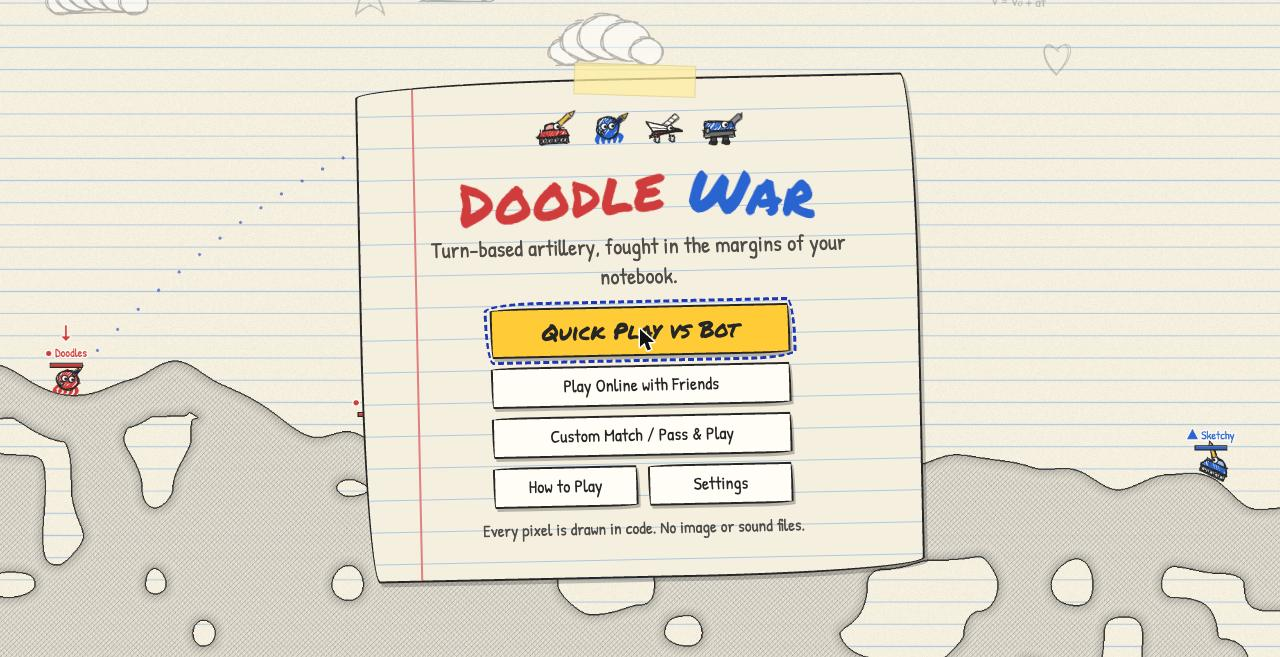
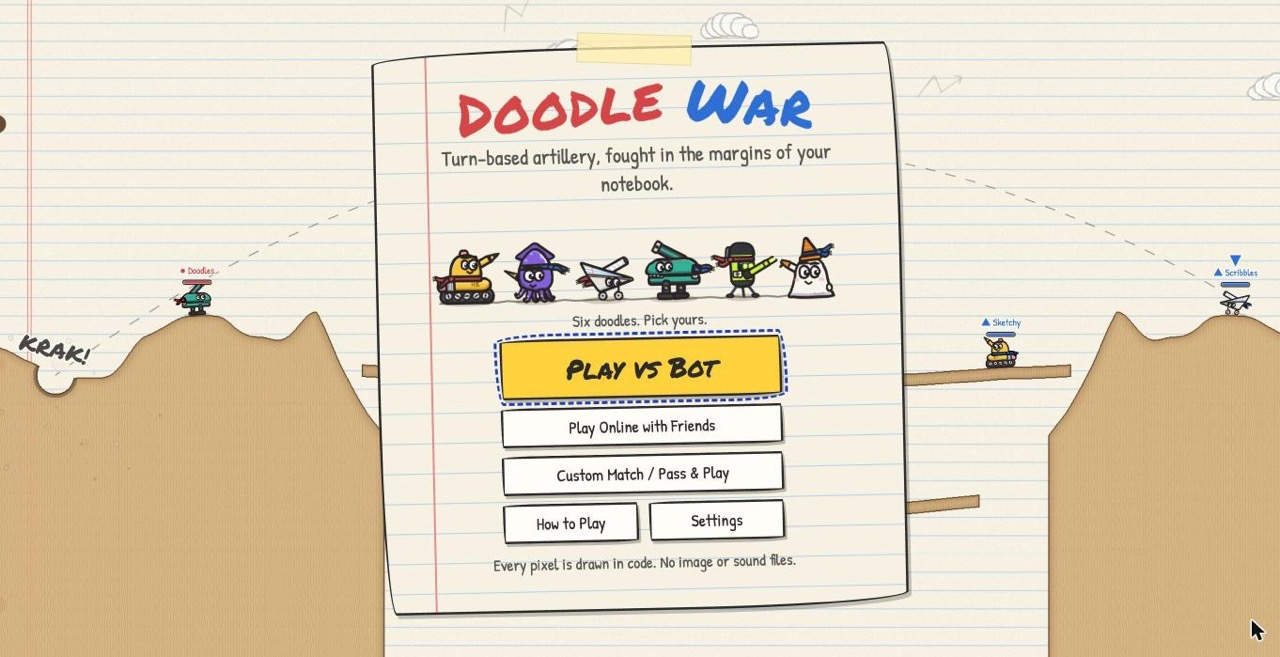
docs: six doodles, fair maps and new screenshots
The README lists every doodle's role and passive, the statuses, the
mirrored maps, how the rigs are drawn and the dev gallery, and the 62
tests. The screenshots and og.jpg, the link preview, show the new art.

diff --git a/README.md b/README.md
@@ -1,14 +1,14 @@
 # Doodle War ✏
 
-A turn-based artillery game fought in the margins of a notebook. Pick a doodle, read the wind, set your angle
-and power, and erase the other team off the page. Play against bots, pass one device around, or open an online
-room and send a friend its 4-letter code.
+A turn-based artillery game fought in the margins of a notebook. Pick one of six doodles, read the wind, set
+your angle and power, and erase the other team off the page. Play against bots, pass one device around, or open
+an online room and send a friend its 4-letter code.
 
 Built with TypeScript, Phaser 4 and React, with a Colyseus server for online rooms. There are no art or sound
 files: every sprite, paper texture, sound effect and music track is made in code when the game starts. The
 only bundled assets are two open-source fonts, Patrick Hand and Permanent Marker.
 
-![A 2v2 match on the Sticky Notes map](docs/screenshot-battle.jpg)
+![A 3v3 match on Margin Hills, with all six doodles on the page](docs/screenshot-battle.jpg)
 
 ## How this was built
 
@@ -60,7 +60,10 @@ Tips point these out during the first matches, and **How to play** on the title 
 - **Terrain is destructible.** Explosions erase the pencil ground, and a unit standing over a crater falls
   in. Falling off the page is a knockout.
 - **The special** (weapon 3) charges a little each turn, and faster when you deal or take damage.
-- **Draw:** once per match, each unit can ink a short line of new ground, as a wall or a bridge.
+- **Draw:** once per match, each unit can ink a short line of new ground, as a wall or a bridge. The Pencil
+  Tank's line can be 60% longer.
+- **Statuses** last for the hit unit's next turn. **Inked** walks half as far and its turn comes 100 delay
+  later; **Stuck** can't walk or hop; **Highlighted** takes 35% more from the next hit.
 - **Hop** spends part of the turn's walking to jump out of a crater or onto a ledge.
 - **Pickups** parachute in every few turns: a **Band-Aid** heals 250, a **Gold Star** adds 50 to the
   special, an **Ink Refill** gives back the Draw. Walk over one to take it. A blast near one pops it.
@@ -68,17 +71,28 @@ Tips point these out during the first matches, and **How to play** on the title 
 
 ### The doodles
 
-| Doodle       | HP   | Shots                                                                          | Special                                  |
-| ------------ | ---- | ------------------------------------------------------------------------------ | ---------------------------------------- |
-| Pencil Tank  | 1000 | Graphite Shell; Twin Lead, one shell short and one long                        | Sharpener: tunnels in, then goes off big |
-| Ink Squid    | 950  | Ink Blot, a wide splash; Splatter, which splits in three at the top            | Ink Storm: a rain of seven drops         |
-| Paper Plane  | 880  | Paper Dart, a glider the wind pushes hard; Crumple Ball, which barely feels it | Squadron: three darts in formation       |
-| Stapler Mech | 1150 | Staple, fast and flat; Rubber Band, which bounces twice                        | Staple Storm: five staples in a burst    |
+Each doodle has a job, a passive that bends one rule, two shots and a special. The select screen shows their
+health and mobility from these numbers, plus strengths and weaknesses.
 
-The Ink Squid's ink is sticky: whoever it hits walks half as far on their next turn.
+![The doodle select, with the Ink Squid picked](docs/screenshot-select.jpg)
 
-There are five maps (Margin Hills, Sticky Notes, Coffee Ring, Spiral Tower and Paper Bridges), and **Remix**
-reshuffles a map's details for a new layout. Matches run from 1v1 to 3v3, and bots come in three levels.
+| Doodle       | Role        | HP   | Passive                                            | Shots                                                                          | Special                                              |
+| ------------ | ----------- | ---- | -------------------------------------------------- | ------------------------------------------------------------------------------ | ---------------------------------------------------- |
+| Pencil Tank  | All-rounder | 1000 | Sketch Artist: a 60% longer Draw line              | Graphite Shell; Twin Lead, one shell short and one long                        | Sharpener: tunnels in, then goes off big             |
+| Ink Squid    | Controller  | 950  | Sticky Ink: inked enemies move less and act later  | Ink Blot, a wide splash; Splatter, which splits in three at the top            | Ink Storm: a rain of seven drops                     |
+| Paper Plane  | Skirmisher  | 880  | Glide: walks off ledges into a glide across gaps   | Paper Dart, a glider the wind pushes hard; Crumple Ball, which barely feels it | Squadron: three darts in formation                   |
+| Stapler Mech | Heavy       | 1150 | Plated: 20% less damage from splash                | Staple, fast and flat; Rubber Band, which bounces twice                        | Staple Storm: five staples in a burst                |
+| Highlighter  | Sniper      | 900  | Laser Sight: sees exactly where its beam goes      | Neon Line, a straight beam whose power sets its range; Cap Toss, which marks   | Overdrive: cuts through cover and every doodle on it |
+| Glue Blob    | Builder     | 1050 | Sticky Feet: climbs slopes more than twice as steep | Glue Glob; Glue Wall, which builds a mound of glue                             | Super Glue: a big blast that sticks enemies in place |
+
+Beams ignore wind and gravity, so the Highlighter needs a clear line; the Glue Wall is the counter, since it
+builds cover anywhere. The Highlighter can aim 30° below level, and the Glue Blob can't fire flatter than 15°.
+
+There are five maps (Margin Hills, Sticky Notes, Coffee Ring, Spiral Tower and Paper Bridges), each drawn in
+its own material: graphite hills with grass, sticky notes, a coffee stain, blue ballpoint and cardboard.
+**Every map is a mirror image down the middle, and both teams start in mirrored spots,** so neither side gets
+the better ground. **Remix** reshuffles a map's details for a new layout that is just as symmetric. Matches run
+from 1v1 to 3v3, and bots come in three levels.
 
 ## Online play
 
@@ -256,7 +270,7 @@ apps/server     The room server: a Colyseus room that runs the same rules for on
 | -------------- | ---------------------------------------------------------- |
 | Rendering      | [Phaser 4](https://phaser.io) (WebGL)                      |
 | Menus and HUD  | React 19, over the canvas                                  |
-| Art            | [rough.js](https://roughjs.com) and Canvas 2D, drawn at boot |
+| Art            | Canvas 2D vector rigs, plus [rough.js](https://roughjs.com) for effects, drawn at runtime |
 | Rules          | `@doodle/sim`, plain TypeScript with no DOM                |
 | Online         | [Colyseus 0.18](https://colyseus.io)                       |
 | Build and test | Vite 8, Vitest, TypeScript 7                               |
@@ -282,28 +296,52 @@ apps/server     The room server: a Colyseus room that runs the same rules for on
   best few, and then miss on purpose by an amount that depends on their level. They read the wind exactly;
   the miss stands in for skill. They also weigh walking over to a pickup. In the browser this runs in a
   Web Worker, so the game keeps animating while a bot thinks.
+- **The doodles are rigs.** Each one (`apps/web/src/game/art/characters/`) is a tree of parts: body,
+  turret, barrel, eyes, pupils, brows, mouth, scarf. Each part has a few frames and three "boil" variants
+  with slightly different lines. A pose function places every part from the doodle's mood (idle, walking,
+  aiming, charging, firing, hurt, falling, cheering, erased), its aim, its charge and the wind, so eyes
+  follow the shot in flight and scarves blow with the wind. The drawing kit (`art/kit.ts`) gives every
+  shape a marker outline that is heavier on the shadow side, a hatched shadow and a lit rim. The
+  battlefield packs each doodle's parts into one texture at 3x; the menus draw the same rig onto a
+  canvas, which is how the select screens show a live doodle.
+- **Shots leave from the barrel.** Every unit has a barrel `mount` in `packages/sim/src/defs.ts`, and the
+  art reads the same numbers, so the projectile starts at the tip that is drawn.
+- **The canvas runs at the screen's pixel density** (up to 2x). Phaser 4 has no setting for that, so
+  `controller.ts` sizes the canvas itself and the camera's zoom carries the factor (`view/dpr.ts`).
 
 ### Things to know before changing it
 
 - **Change rules in `packages/sim`,** never in the game or the server, and keep it free of the DOM,
   Phaser and `Math.random`. Both sides import it as TypeScript source; there's no build step for it.
 - **Change the terrain only through `Terrain`'s operations** (`carveCircle`, `fillCircle`, `fillThickLine`).
-  Online clients replay the same operations to stay identical to the server.
+  Online clients replay the same operations to stay identical to the server. A glue build goes around the
+  doodles' bodies, so its event carries those circles (`skip`), and the client fills around the same ones.
 - **The bot worker rebuilds the game state from a message** (`PlanRequest` in `apps/web/src/game/bot.worker.ts`).
   A new field on `GameState` that the bots should read has to be added there too.
 - **Messages between the game and the server are typed in one place,** `packages/sim/src/protocol.ts`.
 - **Phaser textures outlive the images that use them.** `TerrainView.destroy()` destroys its images first;
-  removing a texture that an image still shows breaks rendering.
+  removing a texture that an image still shows breaks rendering. The doodles' atlases are built once per
+  kind and kept for the session for the same reason.
+- **To work on a doodle's art,** run `pnpm dev` and open `http://localhost:5173/?gallery`. It shows every
+  doodle in every mood, large and at battlefield size, with its hitbox and barrel drawn over it. The
+  gallery exists only in development builds.
 
 ## Tests
 
-`pnpm test` runs 37 tests:
+`pnpm test` runs 62 tests:
 
 - **`packages/sim/test/sim.test.ts`:** terrain operations, every map, the turn flow (the same seed replays
   the same match, delay decides who's next, craters, falls, Draw), the protocol's encoding, pickups, the
   hop, and the bots: that one plans quickly on a real map, and that a hurt one walks over to a Band-Aid.
-- **`packages/sim/test/fullmatch.test.ts`:** a whole bot-against-bot match on each of the five maps, which
-  has to end with a winner.
+- **`packages/sim/test/roster.test.ts`:** what sets each doodle apart. The beam bursts where its power
+  says and stays straight in any wind; Overdrive goes through two doodles in a row; a mark adds 35% to the
+  next hit; glue builds where it lands and never inside a doodle; Super Glue keeps its target from walking;
+  a rain of ink pushes a turn back once, not once per drop; the Stapler takes less splash; the Plane glides
+  over a gap the others fall into; the Glue Blob climbs a step the Pencil Tank can't; the Pencil Tank draws
+  further. It also checks that every map and its spawns are mirror images, and that no doodle's shot
+  starts inside its own body at any angle it can aim.
+- **`packages/sim/test/fullmatch.test.ts`:** whole bot-against-bot matches on each of the five maps, which
+  have to end with a winner.
 - **`apps/server/test/room.test.ts`:** a real server on a local port. Two clients make a room, start a 1v1,
   check that the terrain they receive is identical, walk and fire. Others fill a team with a bot and check
   that it plays its own turn, that no one gets into a room without its code, and that a client flooding
